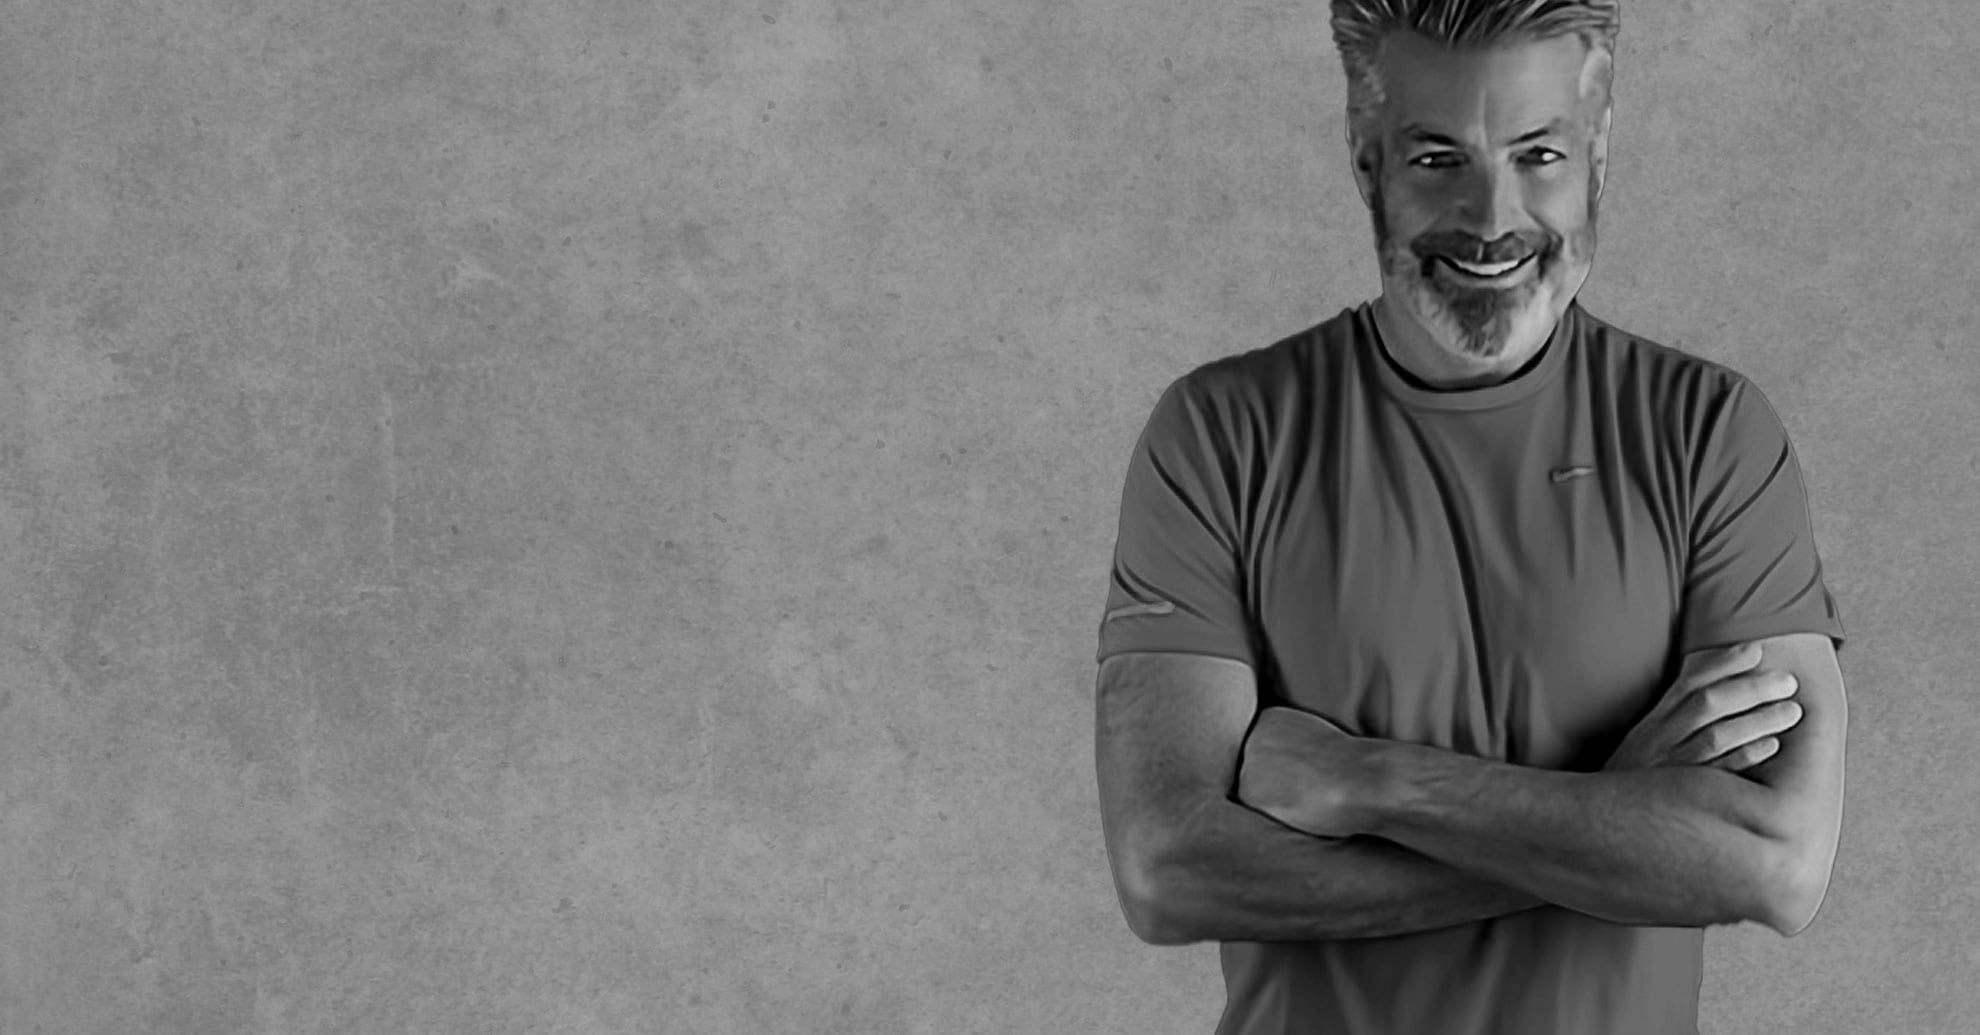
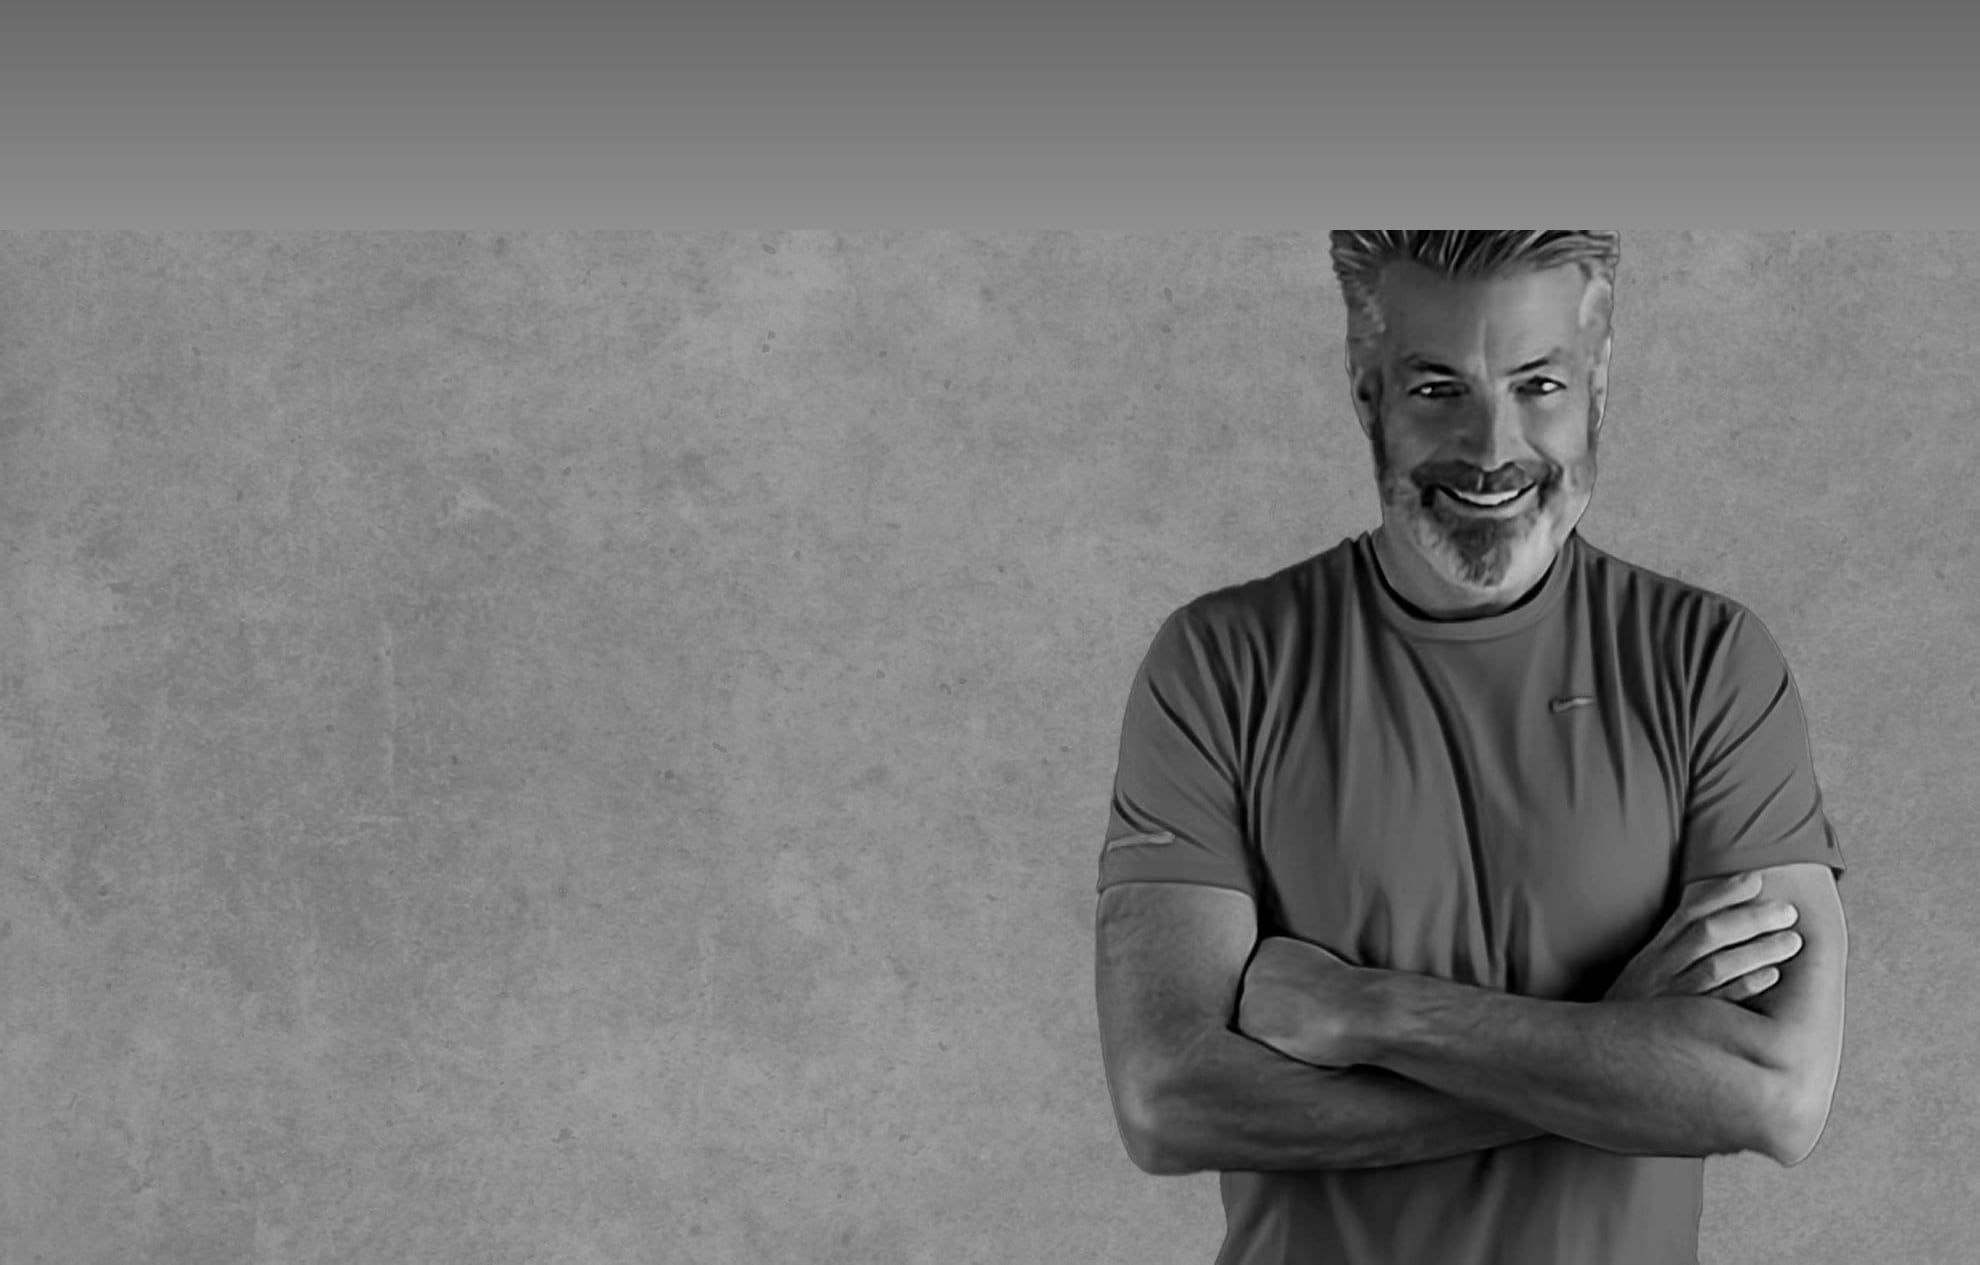
Deploy site 82 files

Changed region(s): [[0.0, 0.0, 1.0, 0.9275], [0.7394, 0.8657, 0.801, 0.9275]]

diff --git a/index.html b/index.html
@@ -68,7 +68,7 @@
     background:
       linear-gradient(90deg, rgba(12,12,13,.94) 0%, rgba(12,12,13,.8) 34%, rgba(12,12,13,.42) 58%, rgba(12,12,13,.12) 80%, rgba(12,12,13,.04) 100%),
       linear-gradient(0deg, rgba(12,12,13,.45), rgba(12,12,13,.18)),
-      #14150F url("assets/images/home/slider_Main_New2.jpg") right center/cover no-repeat;
+      #14150F url("assets/images/home/slider_Main_New2.jpg?v=2") right center/cover no-repeat;
     background-attachment:scroll,scroll,fixed;}
   .hero .wrap{width:100%}
   .hero-inner{max-width:620px}